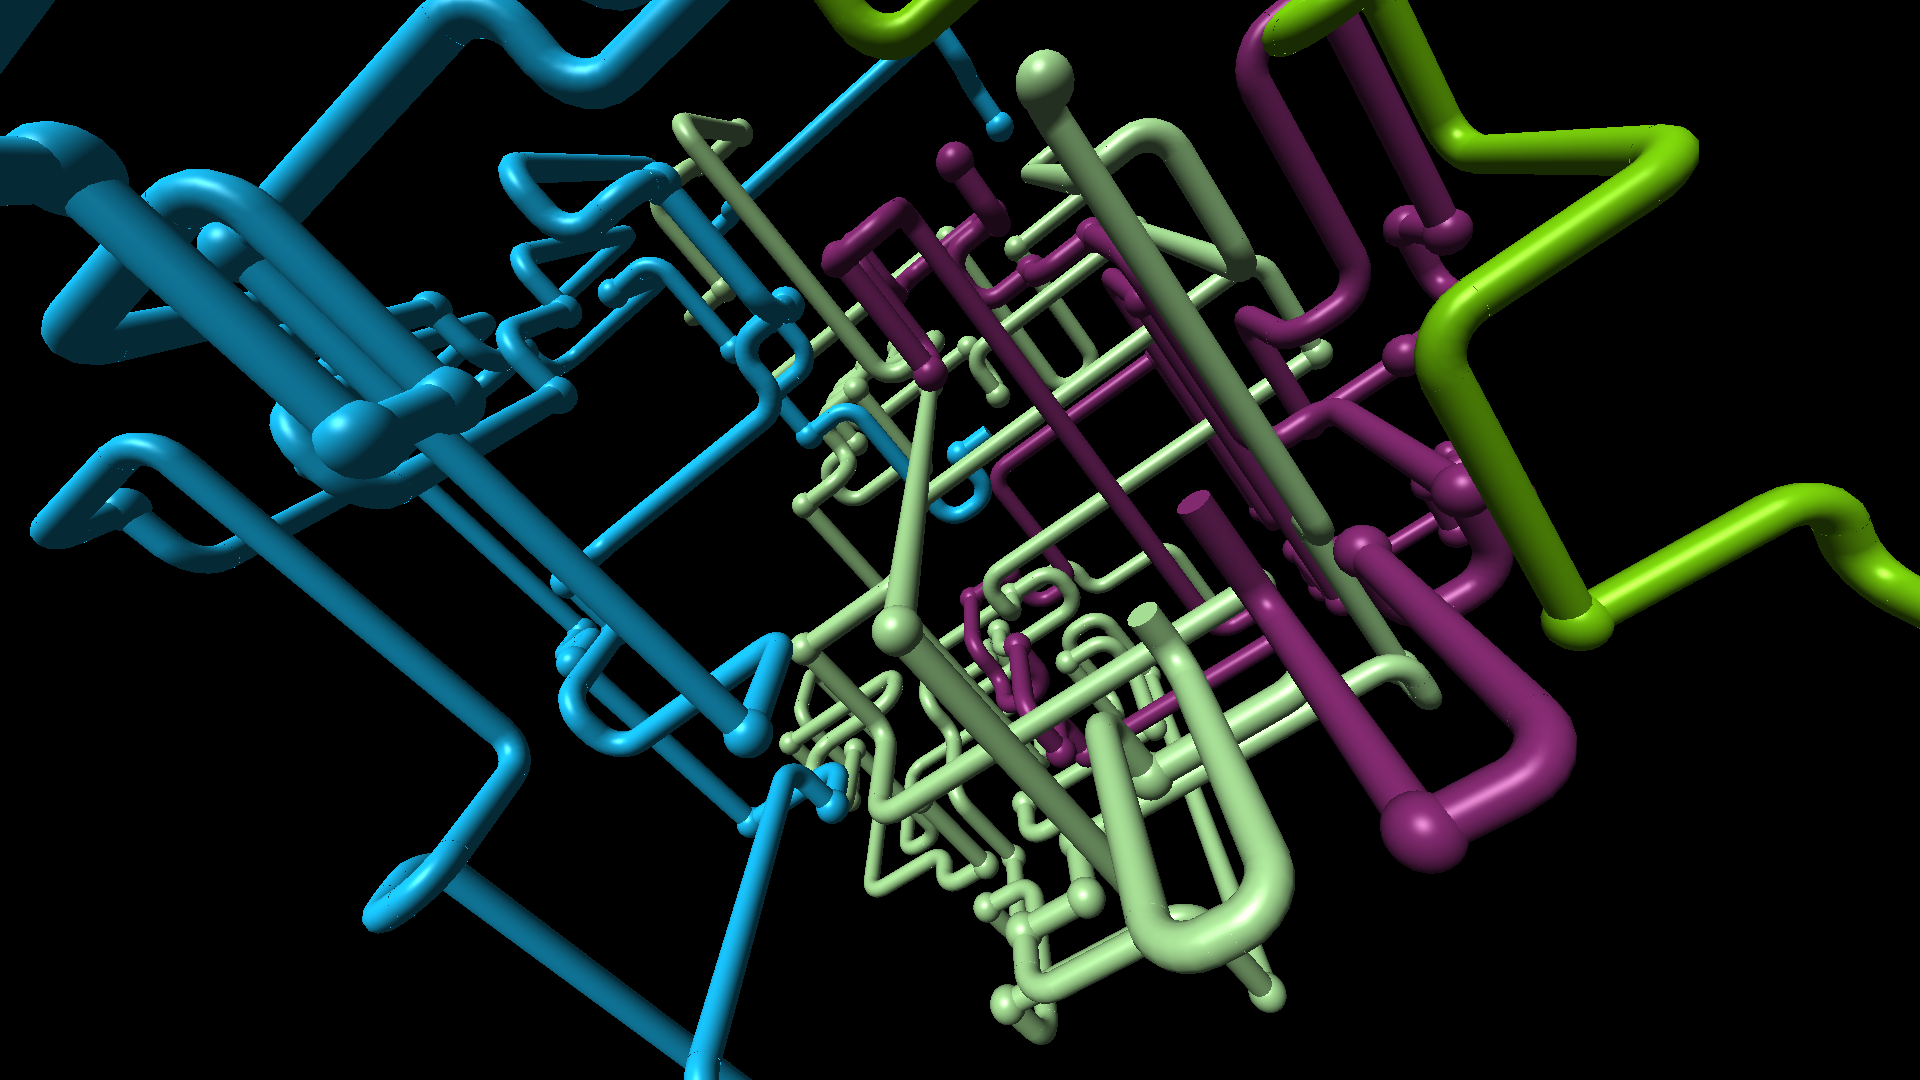
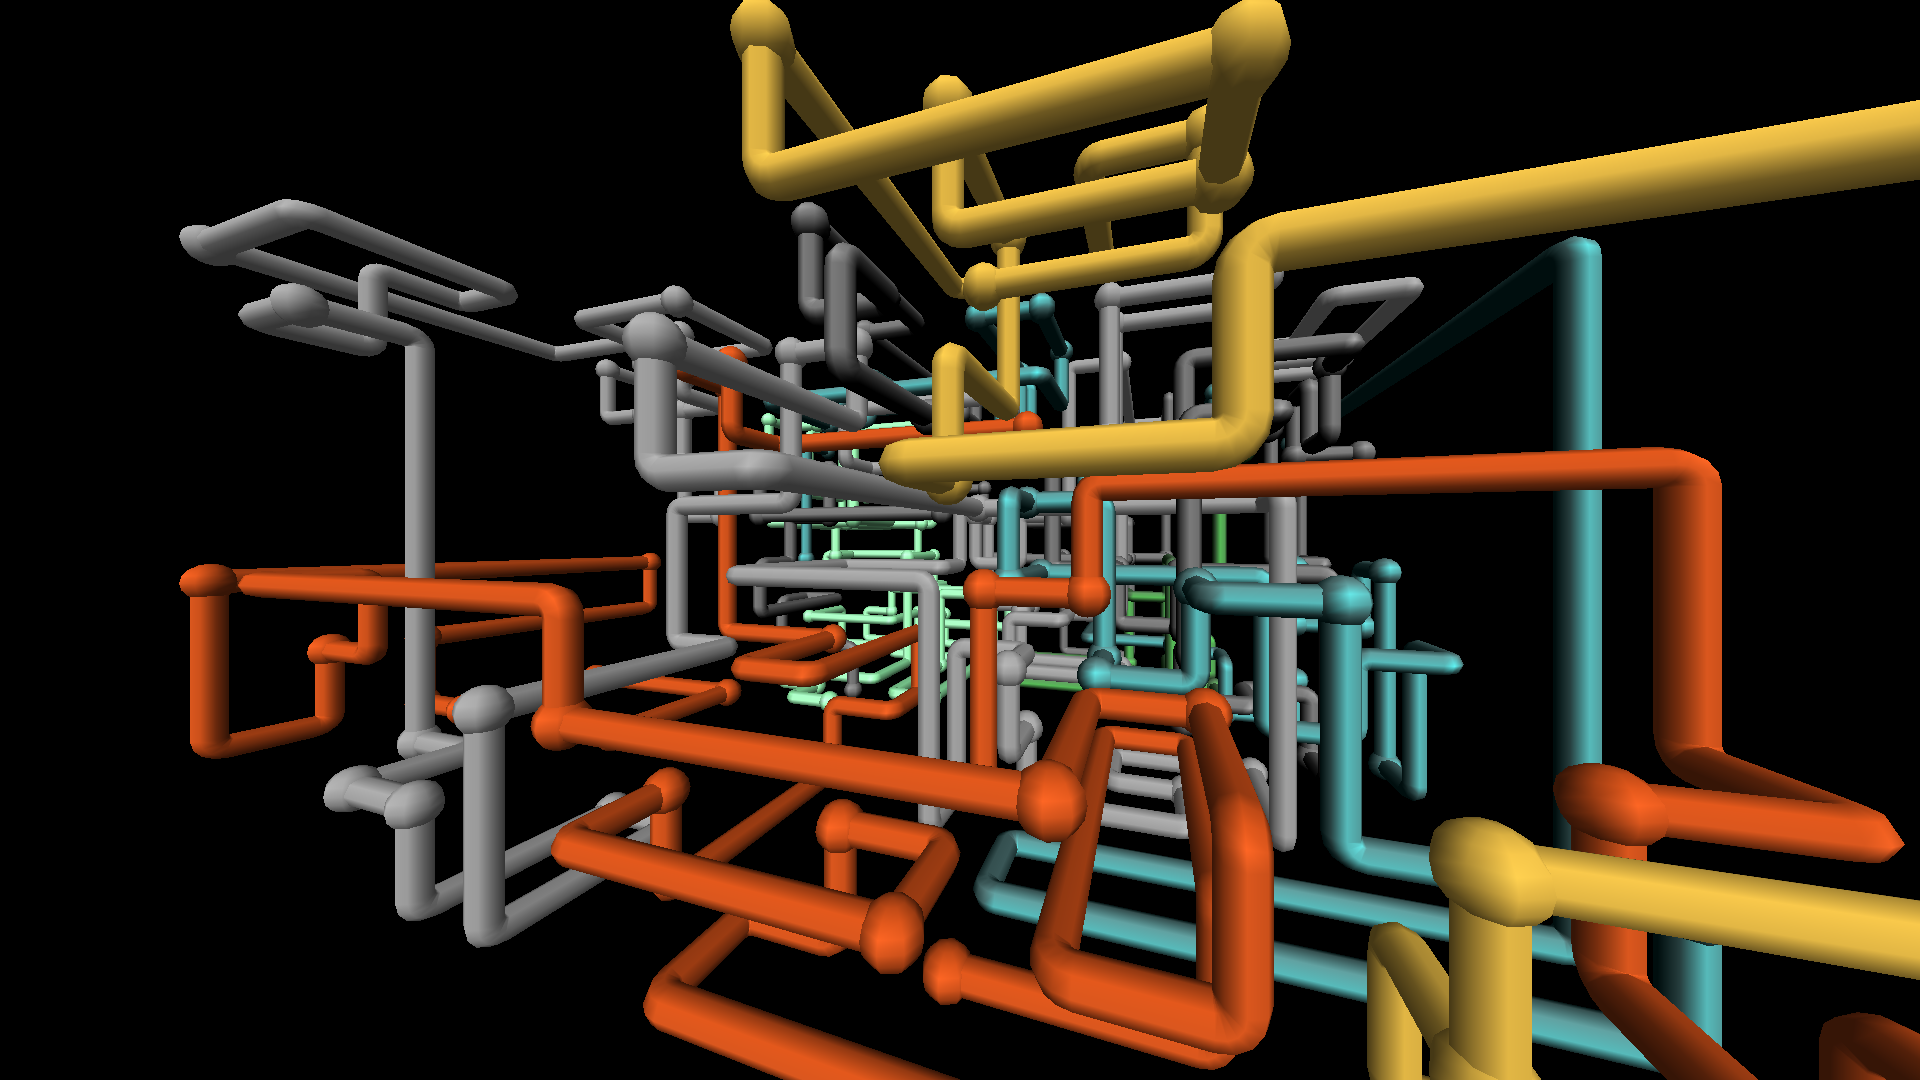
New name, a README in the Clean Your TV style, and US spelling throughout
The README now leads with "3D Pipes: XP Screensaver for Android TV", a banner, badges and a stats card
drawn from real renders (tools/make_readme_art.py), a quick-start table, a 2x2 screenshot table, how
faithful it is and before/after performance on the TV. NOTICE credits the sources the rebuild used.
Every file now uses US spelling (color, license, behavior, center).

diff --git a/tools/make_readme_art.py b/tools/make_readme_art.py
@@ -1,0 +1,117 @@
+"""Draws the README's banner and stats card, and the screenshots, from renders of the app.
+
+The look follows the Clean Your TV README: a dark slate background, a mint accent, Fredoka for headings and Outfit
+for text. The fonts are not in this repository; download them from Google Fonts (both under the SIL Open Font
+License) and pass the folder holding Fredoka.ttf and Outfit.ttf (the variable fonts).
+
+Usage: python -I tools/make_readme_art.py <fonts-dir> <hero.png> <shot1.png> <shot2.png> <shot3.png> <shot4.png>
+  Renders are 1920x1080 screen captures (tools/capture_at.py). A shot may be given as path@x,y,w,h to crop it.
+Writes docs/banner.png, docs/card.png and docs/shot-1.jpg .. docs/shot-4.jpg.
+"""
+import os
+import sys
+
+from PIL import Image, ImageDraw, ImageFilter, ImageFont
+
+BG_TOP = (24, 27, 34)
+BG_BOTTOM = (16, 18, 23)
+WHITE = (247, 248, 250)
+MINT = (207, 255, 207)
+GRAY = (150, 156, 168)
+RULE = (52, 57, 68)
+
+
+def font(folder, name, size, weight):
+    f = ImageFont.truetype(os.path.join(folder, name), size)
+    f.set_variation_by_axes([weight] + ([100] if name.startswith("Fredoka") else []))
+    return f
+
+
+def background(w, h):
+    img = Image.new("RGB", (w, h))
+    px = ImageDraw.Draw(img)
+    for y in range(h):
+        t = y / max(1, h - 1)
+        px.line([(0, y), (w, y)], fill=tuple(round(a + (b - a) * t) for a, b in zip(BG_TOP, BG_BOTTOM)))
+    return img
+
+
+def load(spec):
+    path, _, crop = spec.partition("@")
+    img = Image.open(path).convert("RGB")
+    if crop:
+        x, y, w, h = (int(v) for v in crop.split(","))
+        img = img.crop((x, y, x + w, y + h))
+    return img
+
+
+def rounded(img, radius):
+    mask = Image.new("L", img.size, 0)
+    ImageDraw.Draw(mask).rounded_rectangle([0, 0, img.size[0] - 1, img.size[1] - 1], radius, fill=255)
+    out = Image.new("RGBA", img.size)
+    out.paste(img, (0, 0), mask)
+    return out
+
+
+def banner(fonts, hero, out):
+    w, h = 1600, 440
+    img = background(w, h)
+    # The picture: a square from the middle of a real frame, as an app tile with a soft mint glow behind it.
+    side = 300
+    src = hero.crop(((hero.width - hero.height) // 2, 0, (hero.width + hero.height) // 2, hero.height)).resize((side, side), Image.LANCZOS)
+    tile = rounded(src, 48)
+    x0, y0 = 190, (h - side) // 2
+    glow = Image.new("RGBA", (w, h), (0, 0, 0, 0))
+    ImageDraw.Draw(glow).rounded_rectangle([x0 - 6, y0 - 6, x0 + side + 6, y0 + side + 6], 54, fill=MINT + (70,))
+    glow = glow.filter(ImageFilter.GaussianBlur(26))
+    img.paste(glow, (0, 0), glow)
+    img.paste(tile, (x0, y0), tile)
+    ImageDraw.Draw(img).rounded_rectangle([x0, y0, x0 + side, y0 + side], 48, outline=(70, 76, 90), width=2)
+    d = ImageDraw.Draw(img)
+    tx = x0 + side + 80
+    title = font(fonts, "Fredoka.ttf", 132, 600)
+    d.text((tx, 92), "3D ", font=title, fill=MINT)
+    d.text((tx + d.textlength("3D ", font=title), 92), "Pipes", font=title, fill=WHITE)
+    d.text((tx + 4, 262), "The XP screensaver, on your TV.", font=font(fonts, "Outfit.ttf", 46, 600), fill=WHITE)
+    d.text((tx + 4, 330), "Android TV and Google TV. Rebuilt from the original's rules and 127 measured scenes.",
+           font=font(fonts, "Outfit.ttf", 25, 400), fill=GRAY)
+    img.save(out, optimize=True)
+
+
+def card(fonts, hero, out):
+    w = 1600
+    stats = [("127", "SCENES MEASURED"), ("16", "MATERIALS"), ("30", "STEPS A SECOND"), ("181 KB", "APP")]
+    pic_w = w - 2 * 90
+    pic_h = round(pic_w * hero.height / hero.width)
+    h = 300 + pic_h + 90
+    img = background(w, h)
+    d = ImageDraw.Draw(img)
+    big = font(fonts, "Fredoka.ttf", 92, 600)
+    small = font(fonts, "Outfit.ttf", 26, 500)
+    col = w / len(stats)
+    for i, (value, label) in enumerate(stats):
+        cx = col * i + col / 2
+        d.text((cx - d.textlength(value, font=big) / 2, 52), value, font=big, fill=MINT)
+        spaced = " ".join(label)
+        d.text((cx - d.textlength(spaced, font=small) / 2, 175), spaced, font=small, fill=GRAY)
+        if i:
+            d.line([(col * i, 70), (col * i, 200)], fill=RULE, width=2)
+    d.line([(90, 260), (w - 90, 260)], fill=RULE, width=2)
+    pic = rounded(hero.resize((pic_w, pic_h), Image.LANCZOS), 20)
+    img.paste(pic, (90, 300), pic)
+    d.rounded_rectangle([90, 300, 90 + pic_w, 300 + pic_h], 20, outline=RULE, width=2)
+    img.save(out, optimize=True)
+
+
+def main():
+    fonts, hero_path, *shots = sys.argv[1:]
+    hero = load(hero_path)
+    docs = os.path.join(os.path.dirname(os.path.dirname(os.path.abspath(__file__))), "docs")
+    banner(fonts, hero, os.path.join(docs, "banner.png"))
+    card(fonts, hero, os.path.join(docs, "card.png"))
+    for i, spec in enumerate(shots, 1):
+        load(spec).resize((960, 540), Image.LANCZOS).save(os.path.join(docs, f"shot-{i}.jpg"), quality=90)
+
+
+if __name__ == "__main__":
+    main()

diff --git a/README.md b/README.md
@@ -1,69 +1,141 @@
-# pipes-tv
+<p align="center">
+  <img src="docs/banner.png" alt="3D Pipes: XP Screensaver for Android TV. The XP screensaver, on your TV. Android TV and Google TV. Rebuilt from the original's rules and 127 measured scenes." width="800">
+</p>
 
-A screensaver for Android TV and Google TV that recreates the Windows 3D Pipes screensaver in real-time OpenGL ES 2.0.
+<p align="center">
+  <a href="https://github.com/TheWombRaider/pipes-tv/stargazers"><img src="https://img.shields.io/github/stars/TheWombRaider/pipes-tv?style=flat&cacheSeconds=1800&color=cfffcf&labelColor=15181e" alt="Stars"></a>
+  <a href="https://github.com/TheWombRaider/pipes-tv/commits/main"><img src="https://img.shields.io/github/last-commit/TheWombRaider/pipes-tv?style=flat&cacheSeconds=1800&color=cfffcf&labelColor=15181e" alt="Last commit"></a>
+  <a href="LICENSE"><img src="https://img.shields.io/badge/license-MIT-cfffcf?style=flat&labelColor=15181e" alt="MIT license"></a>
+  <img src="https://img.shields.io/badge/Android%20TV%20%C2%B7%20Google%20TV-Android%208%2B-cfffcf?style=flat&labelColor=15181e" alt="Android TV and Google TV, Android 8 and up">
+  <a href="https://github.com/Gathin23/cleanyourtv/blob/main/SHOWCASE.md"><img src="https://img.shields.io/badge/featured%20in-Clean%20Your%20TV-cfffcf?style=flat&labelColor=15181e" alt="Featured in the Clean Your TV showcase"></a>
+</p>
 
-![3D Pipes: pipes in cyan, pale green, magenta and lime growing through a 3D lattice, seen at an angle in strong perspective on a black background](docs/screenshot.png)
+<p align="center">
+  <img src="docs/card.png" alt="127 scenes measured, 16 materials, 30 steps a second, 181 KB app. A finished scene: gold, silver, copper and turquoise pipes in a lattice seen in strong perspective." width="800">
+</p>
 
-*Not affiliated with or endorsed by Microsoft. "Windows" and the original screensaver belong to Microsoft. This project
-contains no Microsoft code, images or sounds; it was written from observation of public footage.*
+**3D Pipes: XP Screensaver for Android TV** is the classic 3D Pipes screensaver as a native screensaver for Android
+TV and Google TV. It follows the original program's own rules, checked against 127 scenes of the real thing.
 
-## What it does
+*Not affiliated with or endorsed by Microsoft. "Windows" and the original screensaver belong to Microsoft. This
+project contains no Microsoft code, images or sounds.*
 
-A scene starts with one pipe. It grows through a small 3D lattice, going straight about half the time and turning
-90 degrees otherwise, as either a rounded elbow or a ball joint, never entering a node a pipe has used. A new pipe
-joins about every 7 seconds, each in its own random colour. Pipes that run out of room end in a ball. The camera is
-fixed for the scene and chosen fresh for the next. After 18 to 34 seconds the frozen picture dissolves to black pixel
-by pixel over 1.6 seconds and a new scene begins. Rarely a joint is the Utah teapot.
+## How it works
 
-It has no internet permission and no settings screen.
+Pipes grow through a 3D lattice, one whole segment at a time, 30 steps a second:
 
-## Install
+1. **A scene starts** with two to four pipes at random free spots, each in one of 16 classic materials.
+2. **Each step**, every pipe goes straight or turns 90 degrees into a free node, as an elbow or a ball joint. It
+   never doubles back and never enters a node any pipe has used.
+3. **A trapped pipe** ends in a ball and a new one starts, until seven have run.
+4. **When the last pipe is trapped**, small black squares eat the picture, the view turns 9.73 degrees, and the
+   next scene begins.
 
-    gradlew assembleDebug testDebugUnitTest
-    adb install -r app/build/outputs/apk/debug/app-debug.apk
-    adb shell settings put secure screensaver_components io.github.thewombraider.pipestv/.PipesDream
-    adb shell settings put secure screensaver_enabled 1
+**No internet permission, no settings screen, nothing running when the screensaver is not on.**
 
-The app also adds a "3D Pipes" entry to the launcher that runs the same scene in a window, to preview it.
-(The launcher entry is signed with the debug key, so it installs over a debug build and is meant for sideloading.)
+How each rule and number was established, and what was corrected along the way, is in
+[docs/REFERENCE_ANALYSIS.md](docs/REFERENCE_ANALYSIS.md).
 
-### TCL TVs: allow auto-start once
+## Quick start
 
-TCL firmware blocks the system from binding a sideloaded app's screensaver service. The log shows
-`TclAppBoot: forbid bind service ... callee_doesn't_have_OP_AUTO_START_permission` and the TV goes to "Dreaming"
-with nothing on screen. Allow it once; it survives reinstalls:
+You need a computer with the Android SDK on the same Wi-Fi as the TV.
+
+| | |
+|---|---|
+| **1. On the TV** | Settings → System → About → press OK on **Android TV OS build** seven times → back → Developer options → **USB debugging** on. Turn on Network or Wireless debugging too if you see it. |
+| **2. On your computer** | `adb connect <tv-ip>`, then build and install: `gradlew assembleRelease` and `adb install -r app/build/outputs/apk/release/app-release.apk`. Accept "Allow USB debugging?" on the TV. |
+| **3. Make it the screensaver** | `adb shell settings put secure screensaver_components io.github.thewombraider.pipestv/.PipesDream` and `adb shell settings put secure screensaver_enabled 1`. |
+
+The app also puts a **3D Pipes** tile in the launcher that runs the same scene in a window, to preview it. The
+release build is signed with the debug key and is meant for sideloading.
+
+**TCL TVs: allow auto-start once.** TCL firmware stops the system from starting a sideloaded app's screensaver; the
+TV goes to "Dreaming" with nothing on screen, and the log shows
+`TclAppBoot: forbid bind service ... callee_doesn't_have_OP_AUTO_START_permission`. Allow it once; it survives
+updates:
 
     adb shell cmd appops set io.github.thewombraider.pipestv AUTO_START allow
 
-Undo with `... AUTO_START default`. This was needed on a TCL 75T7 (Google TV, Android 14).
+Undo with `AUTO_START default`. This was needed on a TCL 75T7 (Google TV, Android 14).
 
-## How faithful is it
+## What you get
 
-The look and timing were measured from [3d Pipes Screensaver 10 Hours](https://youtu.be/tCpnDTzRAjE) by DoctorDothraki;
-the findings, and which are observed and which are estimated, are in [docs/REFERENCE_ANALYSIS.md](docs/REFERENCE_ANALYSIS.md).
-Known limits:
+- **The original's rules**: a lattice shaped to your screen (15 x 8 x 15 on a 16:9 TV), pipes that prefer to run
+  straight, two to four at once, and scenes that end when the last pipe is trapped, not on a timer.
+- **The original's look**: 8-sided pipes with smooth shading, balls one and a half pipes across, elbows as tight as
+  the pipe, and no smoothing on the edges, as OpenGL 1.1 drew them.
+- **The 16 classic materials**, emerald to white rubber, each with its own highlight, lit per vertex by one light
+  above the camera.
+- **The level camera** with a 90 degree view, turning 9.73 degrees with each scene.
+- **Chase scenes**, where the pipes follow a leader, and the **Utah teapot** in place of a joint, rarely.
+- **The clear**: small black squares in random order over about half a second.
 
-- The lattice size (15), tube radius (0.17), field of view (65 degrees), camera distance (9 to 13) and growth speed
-  (12 units a second) are estimates calibrated against a handful of frames, not read from the original's code.
-- Scene lengths were measured over about five minutes of a ten-hour recording.
-- No teapot was found in the sampled frames; the 1-in-1000 rate comes from the original's documented behaviour.
-- Tested on one TV (TCL 75T7, MediaTek, 2.4 GB) at 54 to 60 fps, and on an Android 14 emulator.
+| | |
+|---|---|
+| ![Red, silver and white pipes filling a lattice seen in perspective](docs/shot-1.jpg) | ![Copper pipes close to the camera, showing tight elbows and ball joints](docs/shot-2.jpg) |
+| *A finished scene* | *Close up: elbows as tight as the pipe, balls at the turns* |
+| ![The picture half eaten by small black squares](docs/shot-3.jpg) | ![A copper Utah teapot in place of a joint among the pipes](docs/shot-4.jpg) |
+| *The clear, part way through* | *The teapot, about one scene in 40* |
 
-## Launch options (for testing)
+## How faithful it is
 
-The preview activity accepts extras, all clamped to safe ranges:
-`--ei grid 15 --ef radius 0.17 --ef fov 65 --ef dmin 9 --ef dmax 13 --ef dissolve 1.6 --ef timescale 1 --ef teapot 0.001`.
-Frame statistics are logged under the tag `XPPipes` on debuggable builds only.
+Microsoft published the source of 3D Pipes as an OpenGL sample in the Windows NT 4.0 SDK. This app follows that
+program's rules, read from [SspipesSharp](https://github.com/RussDev7/SspipesSharp), a port of the sample (facts only,
+no code copied). Five public recordings, 127 complete scenes, were then measured frame by frame to check each rule
+and to settle what the source leaves to the machine. An independent reviewer tried to refute every finding; its
+verdicts and the corrections are in [docs/reference/SKEPTIC.md](docs/reference/SKEPTIC.md).
 
-## Tests
+Where the recordings disagree, this app follows the Windows XP recording and the recordings that match it:
 
-`./gradlew testDebugUnitTest` runs the growth rules (no reversing, no reused nodes, bounds, clearing, determinism, the
-pipe schedule, colours, speed, bad lattice sizes) and the geometry (cylinder, sphere, elbow, the teapot asset).
-`tools/capture_at.py` screenshots an emulator at a chosen scene age for side-by-side comparison with reference frames.
-`tools/gen_teapot.py` regenerates `teapot.bin` from three.js's teapot data.
+- **Light**: from above the camera. The NT sample and one recording light from the upper right.
+- **Clear**: 0.57 s. Its speed depended on the machine; one recording takes 1.7 s.
+- **Speed**: 30 steps a second. The original asked for a 16 ms timer and got 23 to 29 steps a second depending on
+  the machine.
+- **Settings**: multiple pipes and mixed joints. The original let you choose; the recordings use different choices.
+- **Teapot**: about one scene in 40. The NT sample's 1 turn in 1000 does not match the footage, where none appear
+  in 31 mixed scenes.
 
-## Credits and licence
+## Performance
 
-MIT; see [LICENSE](LICENSE). Third-party material and credits are in [NOTICE](NOTICE): the growth rules follow
-[1j01/pipes](https://github.com/1j01/pipes) (MIT) and the teapot comes from three.js's `TeapotBufferGeometry`
-(MIT, Eric Haines), from Martin Newell's Utah teapot data.
+Measured on a TCL 75T7 (MediaTek, Mali-G52), from the outside with SurfaceFlinger's frame times
+(`tools/frame_timing.py`):
+
+| | Before (v1) | Now |
+|---|---|---|
+| Frames | 49 a second, aiming at 60 | 30 a second, one per step, as the original |
+| Late frames | 16 % of intervals | none; the 0.2 % of intervals that run long are the one-step pause at a scene's end |
+| Longest gap | 117 ms | 50 ms (that pause) |
+| App CPU, median | 21 % of a core | 10 % of a core |
+
+A whole scene is one vertex buffer that only grows, drawn with one call, and a frame is drawn only when the picture
+changes. Drawing a finished scene eight times a frame still holds 60 frames a second on the TCL, so one draw takes
+at most about 2 ms. That leaves room for budget sticks with a Mali-G31 or G52, such as the Chromecast with Google TV
+HD or the onn 4K; it is designed for them but has not been tested on them.
+
+## For developers
+
+**Build and test**: `gradlew testDebugUnitTest lintRelease`. The tests cover the growth rules (whole segments, no
+reused nodes, bounds, scene length against the reference model, pipe counts, materials, joint modes), the camera's
+clearance at every turn, and the shapes (sizes, outward-facing triangles, elbow rims that meet the pipe, a whole
+teapot).
+
+**Launch options**: the preview activity takes extras for testing, all clamped:
+`--es pipes multiple|single --es joints mixed|elbow|ball --ef turn 0 --ef teapot 0.00005 --ef timescale 1
+--ef dissolve 0.57 --ef hold 0.033 --ef stress 1`. Debuggable builds log frame and scene statistics under the tag
+`XPPipes`.
+
+**Tools**:
+
+- `tools/reference/`: the footage measurements (`frame_stats.py`, `scenes.py`) and a model of the rules
+  (`sim_model.py`).
+- `tools/capture_at.py`: screenshots a finished scene on an emulator.
+- `tools/frame_timing.py`: frame timing and CPU on a device.
+- `tools/score_frames.py`: ranks candidate screenshots.
+- `tools/make_readme_art.py`: draws the banner, card and screenshots.
+- `tools/gen_teapot.py`: builds `teapot.bin` from three.js's teapot data.
+
+## Credits and license
+
+MIT, see [LICENSE](LICENSE). Third-party material and credits are in [NOTICE](NOTICE): the original's rules as
+documented by SspipesSharp, the classic OpenGL teapot materials, the Utah teapot from three.js's `TeapotGeometry`
+(MIT, Eric Haines) and Martin Newell's teapot data, and the look of the Clean Your TV README.
